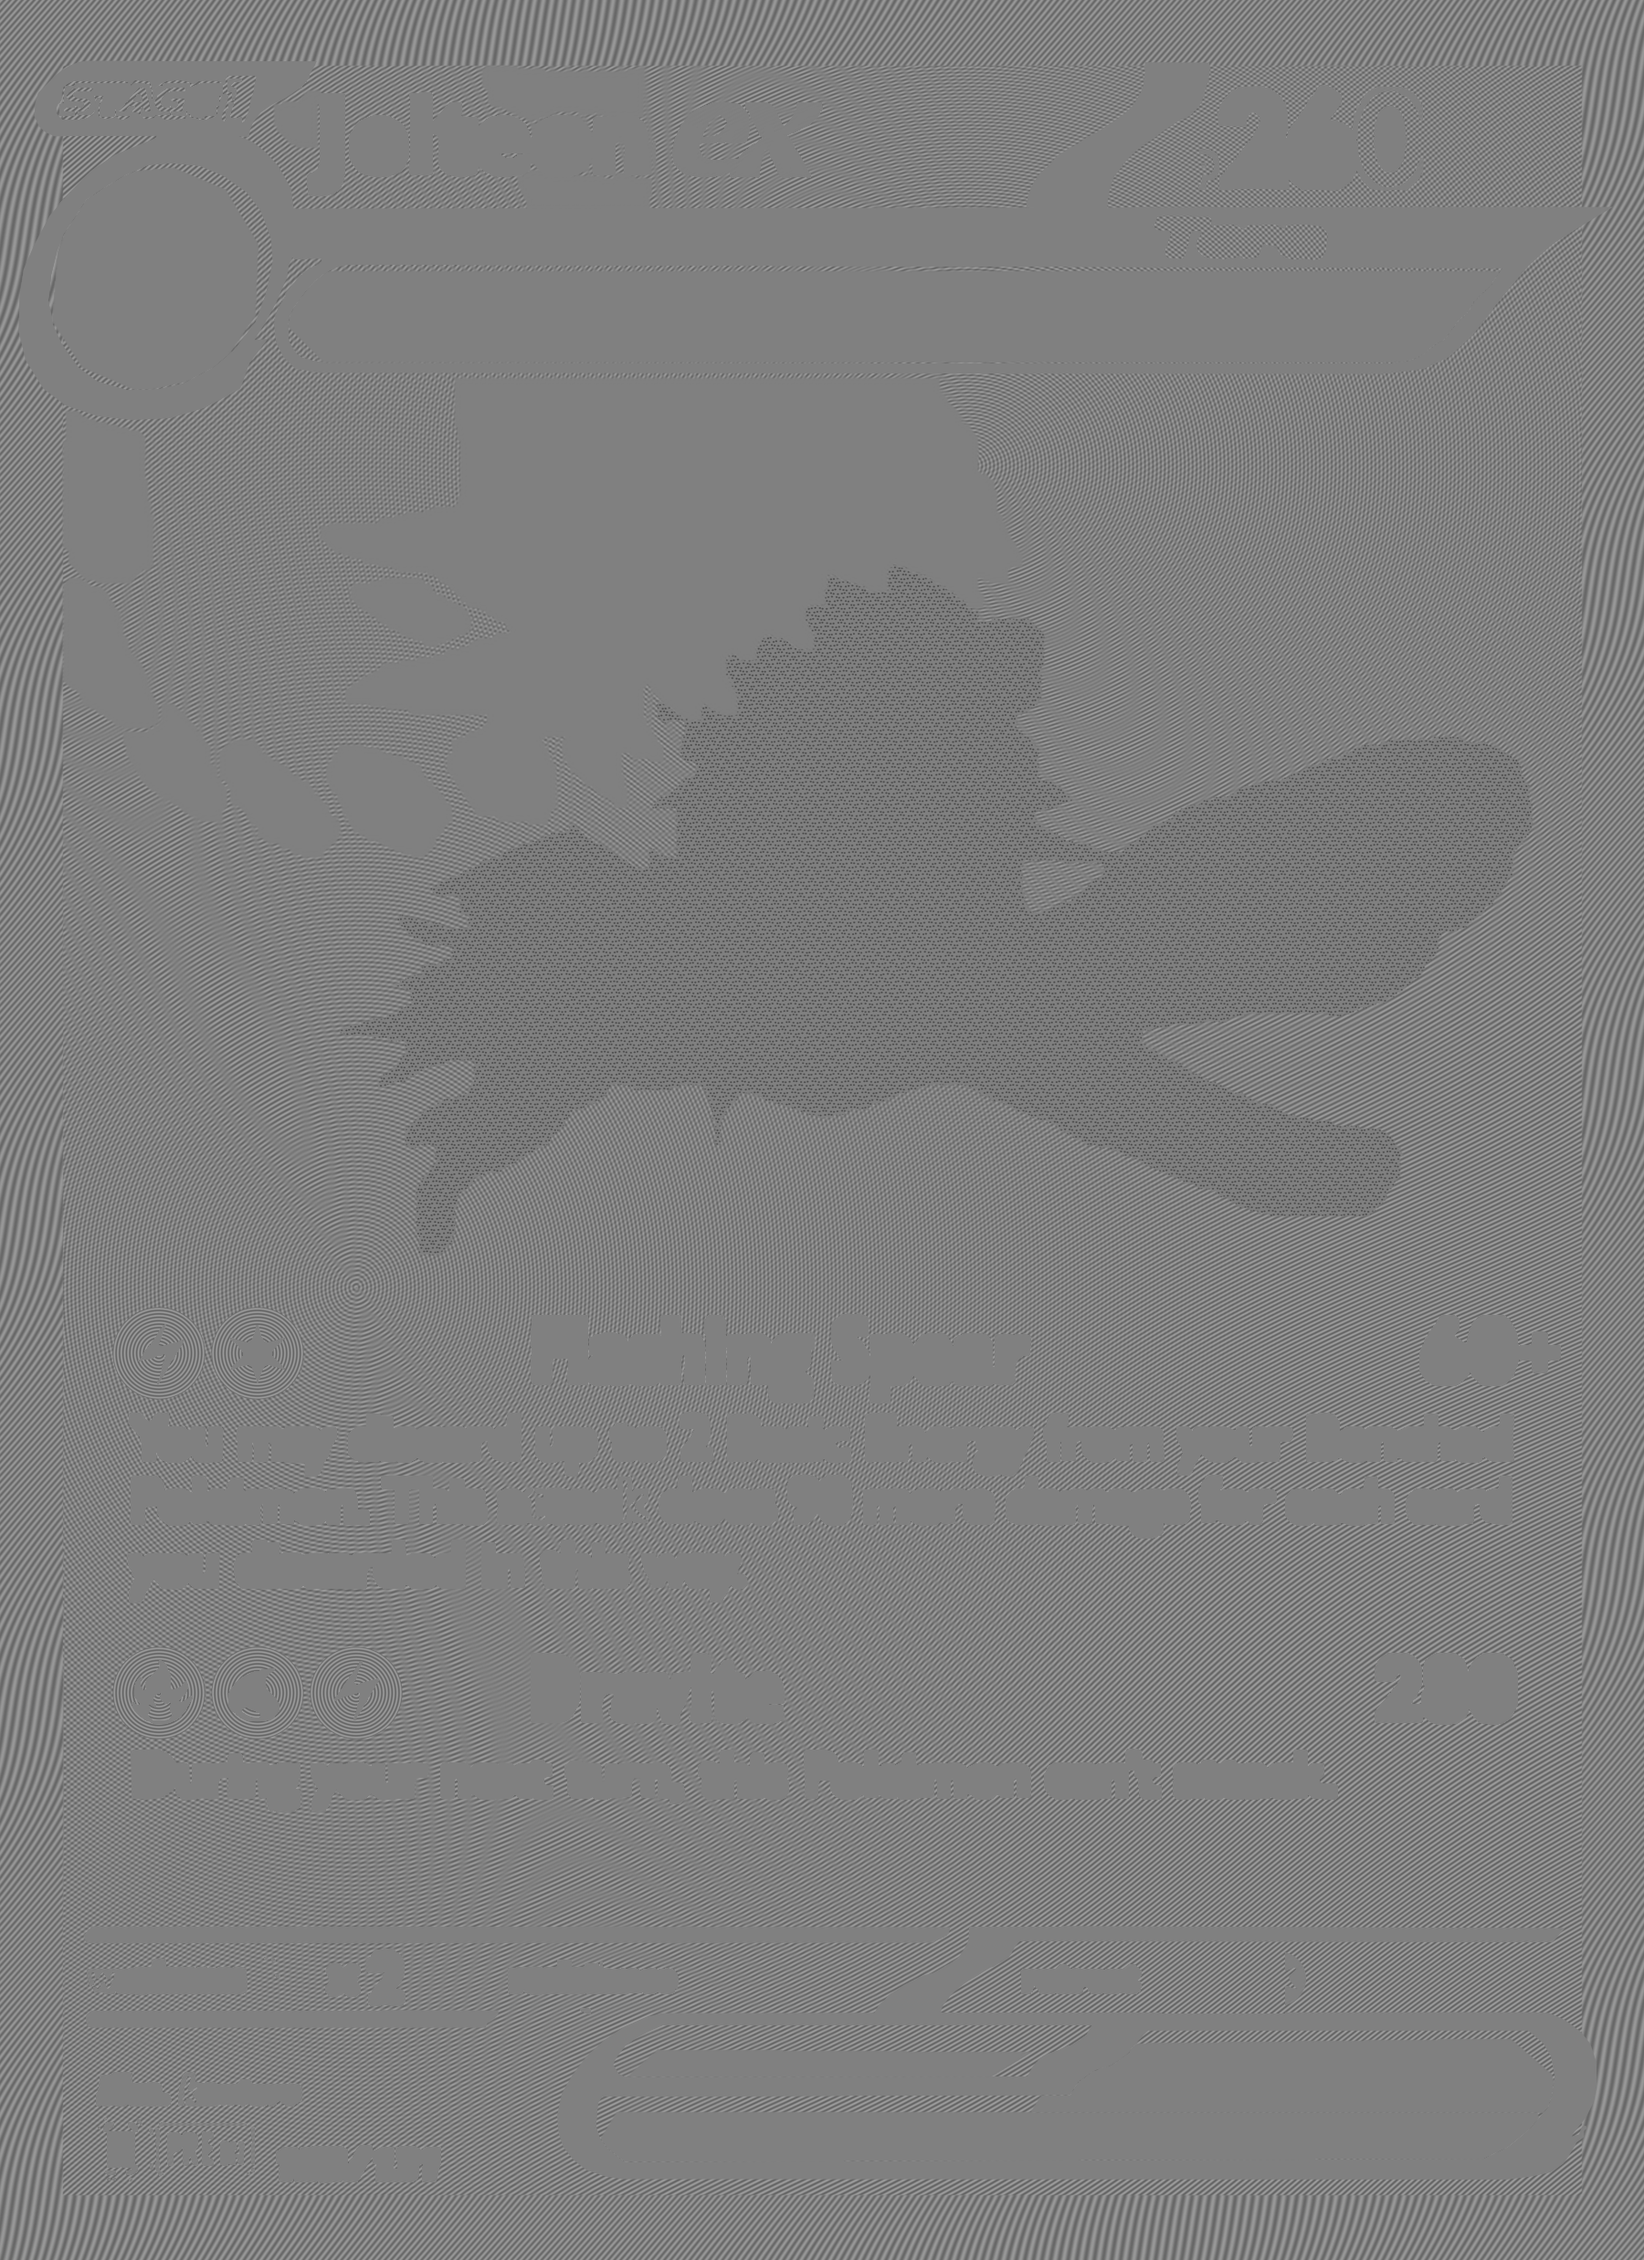
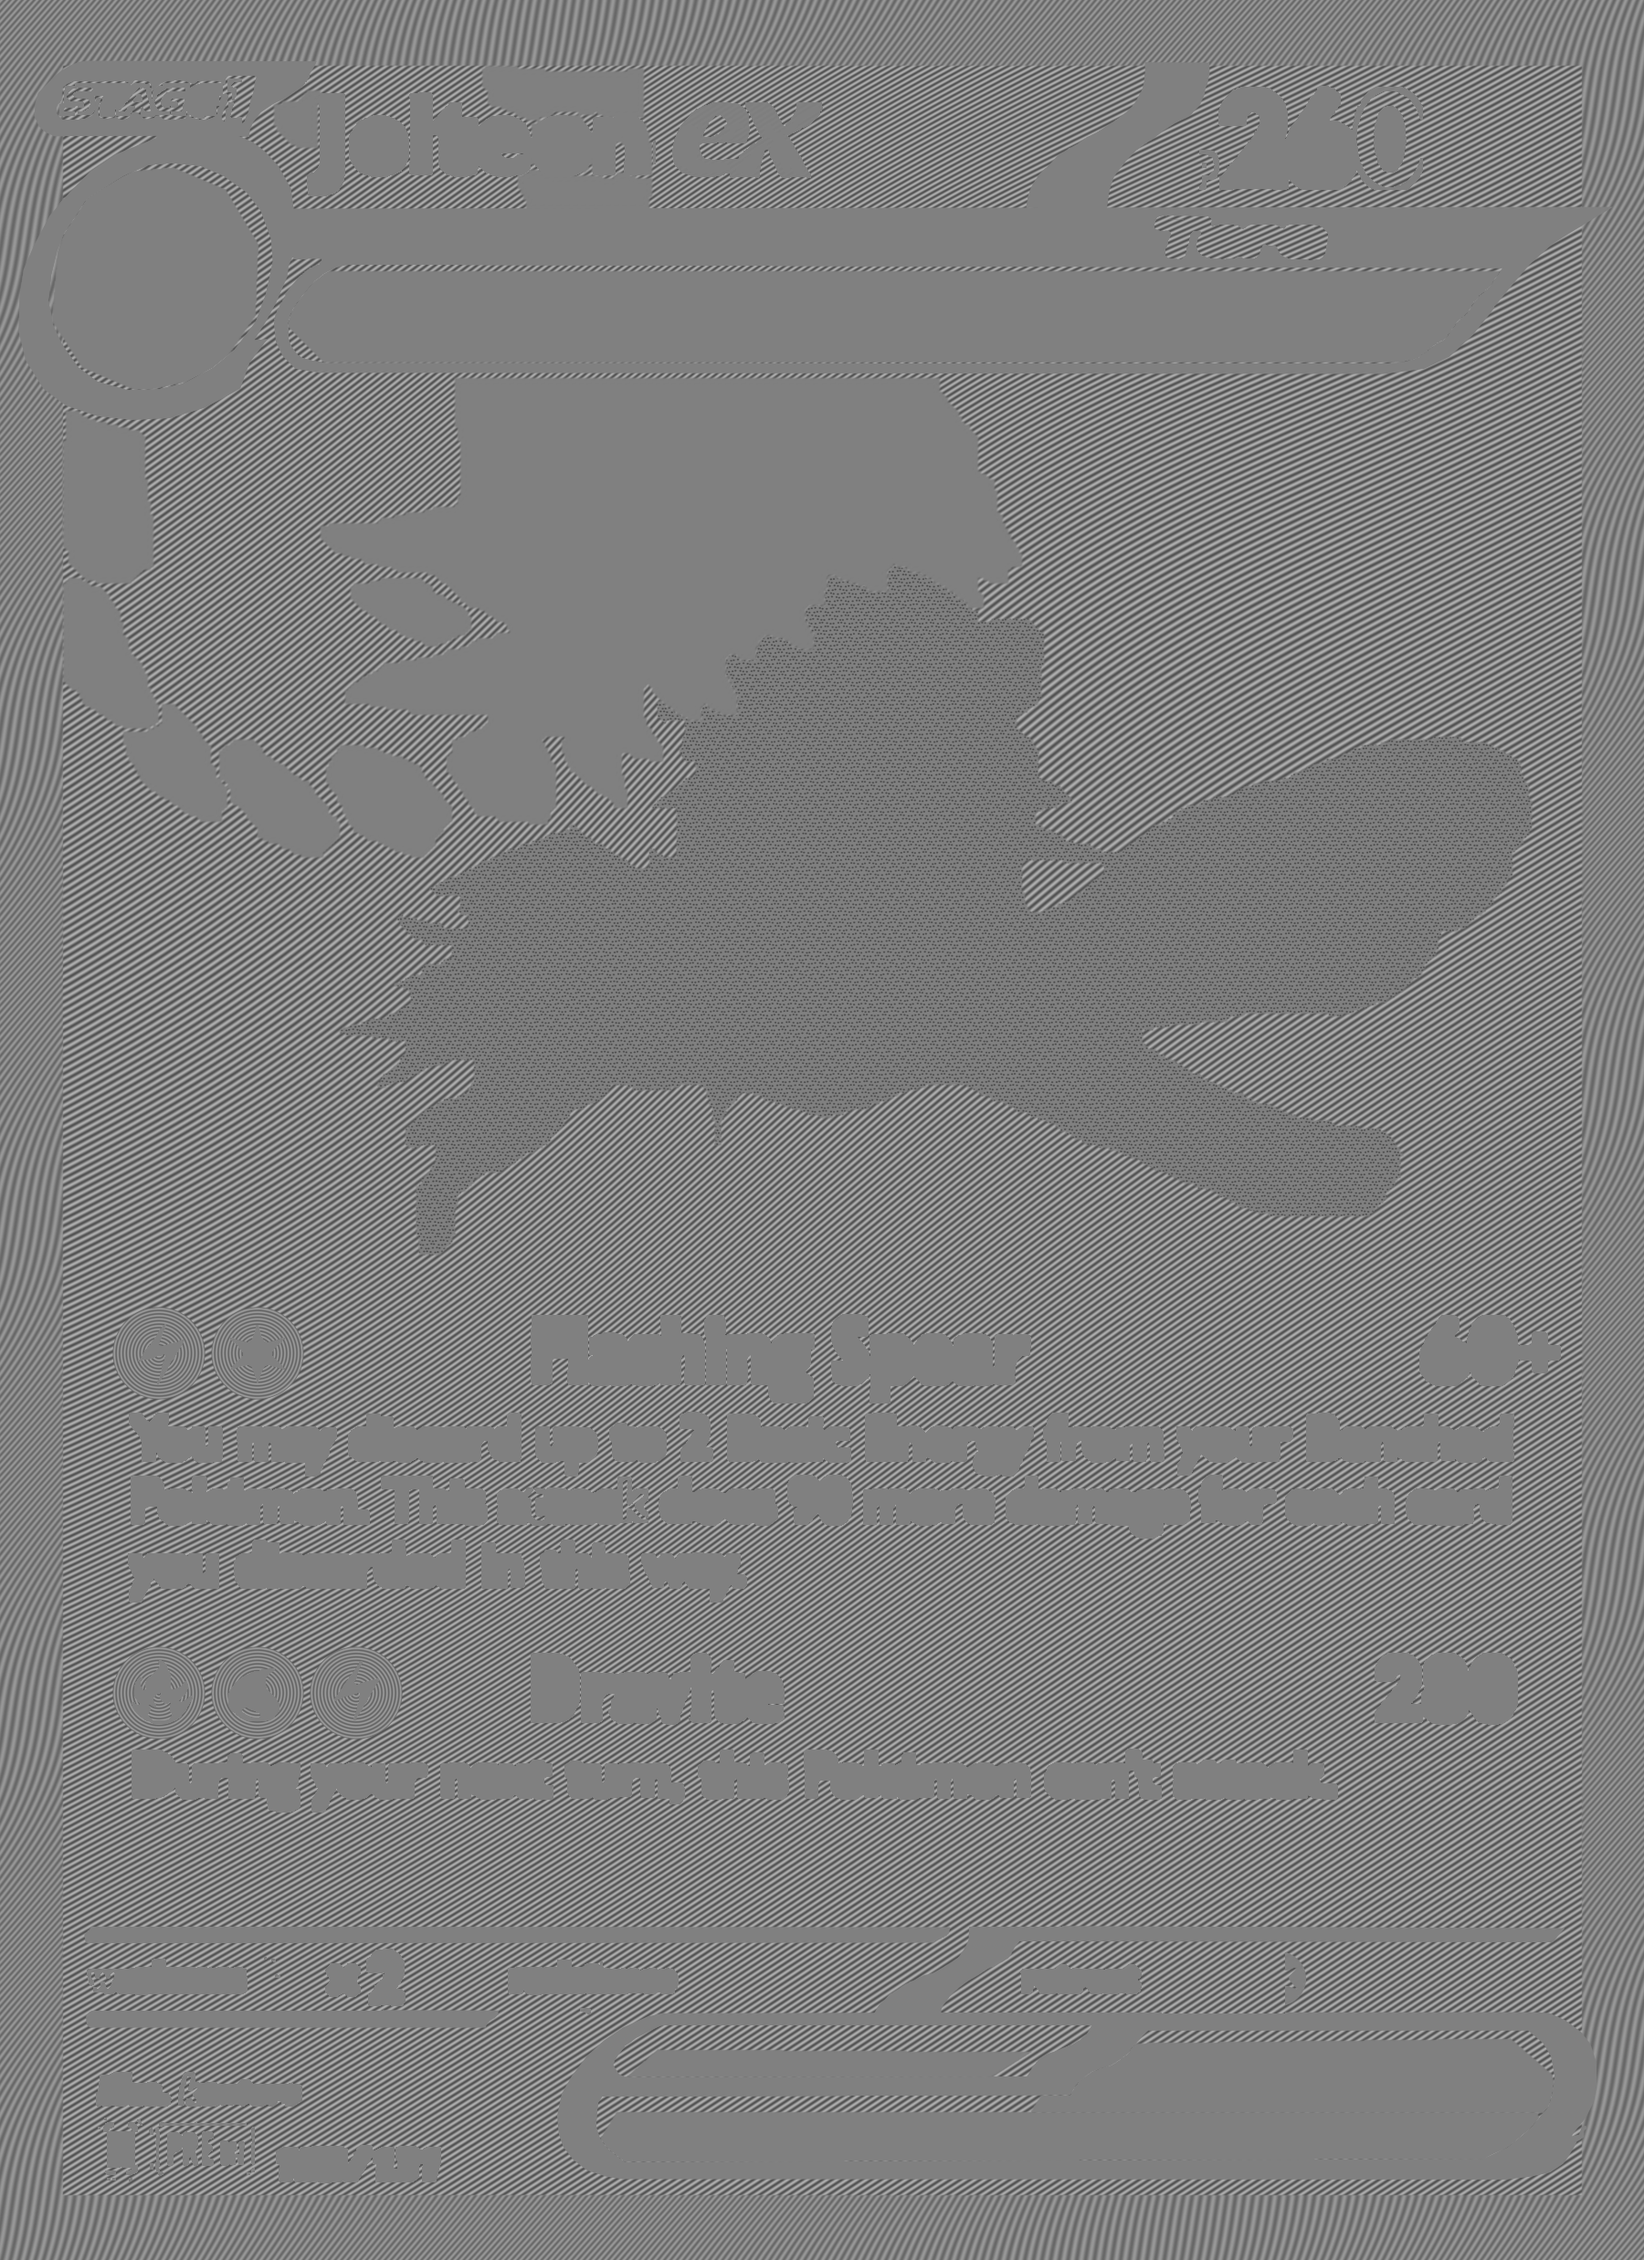
Strengthen Jolteon background etching with continuous grooves

Changed region(s): [[0.0311, 0.0311, 0.9644, 0.9956], [0.0311, 0.0311, 0.0933, 0.0933], [0.28, 0.2489, 0.3111, 0.28]]

diff --git a/scripts/prismatic/jolteon_maps.py b/scripts/prismatic/jolteon_maps.py
@@ -82,15 +82,17 @@ def build():
     # Differentiate continuous fields before material clipping.
     def slope(h):
         gy,gx=np.gradient(h,1/S,1/S); return gx,gy
-    phase=.52*x+.80*y+8*np.sin(.014*x-.009*y)+3*np.sin(.026*y)
-    height=.60*np.sin(phase*2*np.pi/1.45); gx,gy=slope(height)
-    # Upper-right grooves bend around the crown rather than following the
-    # printed lightning bolts. The lower-left field curves into the burst.
-    for cx,cy,rx,ry in [(353,170,175,155),(130,470,175,200)]:
-        radius=np.hypot(x-cx,(y-cy)*rx/ry)
-        h=.60*np.sin(radius*2*np.pi/1.45)
-        hx,hy=slope(h); w=.65*np.exp(-np.power(radius/(rx*1.4),4))
-        gx=gx*(1-w)+hx*w; gy=gy*(1-w)+hy*w; height=height*(1-w)+h*w
+    # A single continuous phase avoids crossing independent ridge families.
+    # Broad bends follow the crown-side sweep and lower-left burst in the photo;
+    # pitch and depth are estimates at this photograph's resolution.
+    phase=.52*x+.80*y
+    phase+=32*np.exp(-((x-353)/175)**2-((y-170)/155)**2)
+    phase-=28*np.exp(-((x-130)/175)**2-((y-470)/200)**2)
+    height=.95*np.sin(phase*2*np.pi/1.9)
+    gx,gy=slope(height)
+    # Increase background relief only. Body, crystal, trim and energy response
+    # are assigned independently below and retain their original strengths.
+    gx*=1.55; gy*=1.55
     field_body=body_texture(x,y)*.50
     edge=.50*np.sin((.52*x+.31*y+7*np.sin(.035*y+.014*x))*2*np.pi/1.35)
     ex,ey=slope(edge); gx=gx*inner+ex*(1-inner); gy=gy*inner+ey*(1-inner)
@@ -109,13 +111,16 @@ def build():
     active=(1-smooth_micro)*(1-protection)
     gx*=active; gy*=active; height*=active
     normal=np.stack([-gx*.065,gy*.065,np.ones_like(gx)],2); normal/=np.linalg.norm(normal,axis=2,keepdims=True)
-    rough=(.35+.055*body)*(1-secondary)+.27*secondary
+    rough=(.30+.105*body)*(1-secondary)+.27*secondary
     foil=(.92*inner+.98*(1-inner))*(1-.40*body)
     arrays={'foil':foil,'protection':protection,'height':.5+height*.19,'normal':normal*.5+.5,
       'roughness':rough,'secondary-foil':secondary,'body':body,'gems':gems,'silver':silver,'right-microdiamond':right,'energy-discs':energy}
     hashes={}
     for name,data in arrays.items():
-        path=OUT/f'153-holo-{name}.png'; Image.fromarray(np.rint(np.clip(data,0,1)*255).astype(np.uint8)).save(path)
+        path=OUT/f'153-holo-{name}.png'
+        pixels=np.rint(np.clip(data,0,1)*255).astype(np.uint8)
+        if not path.exists() or not np.array_equal(np.asarray(Image.open(path)),pixels):
+            Image.fromarray(pixels).save(path)
         hashes[path.name]=hashlib.sha256(path.read_bytes()).hexdigest()
     for name,mask,color in [('body',body,(255,0,160)),('microdiamond',secondary,(0,255,140)),('protection',protection,(40,80,255))]:
         overlay=rgb*(1-mask[...,None]*.48)+np.array(color)/255*mask[...,None]*.48
@@ -123,6 +128,7 @@ def build():
     evidence=dict(cardId='sv08.5-153',variant='holo',status='photo-guided-reconstruction',rendererReady=True,textured=True,
       mapSize=[W,H],maps=hashes,references=[dict(file=p.name,sha256=hashlib.sha256(p.read_bytes()).hexdigest()) for p in sorted(REF.iterdir())],
       referencePolicy='Exact-card etching-master.jpg guides relief and bottom-right diamond coverage. User colored outlines define body and crystals. Supplied energy crops guide concentric icon relief. Clean front supplies registration only; shared silver mask is registered to title and retreat cost.',
+      reliefMethod='Single continuous curved background phase, differentiated before clipping; no superimposed crossing ridge fields. Original body, crystal boundaries and concentric attack-energy fields retained.',
       limitations='Incision spacing, depth, hidden line continuation and optical constants are estimates from the supplied views. No brightness or random noise was converted to relief.')
     (OUT/'153-holo-evidence.json').write_text(json.dumps(evidence,indent=2)+'\n')
 
